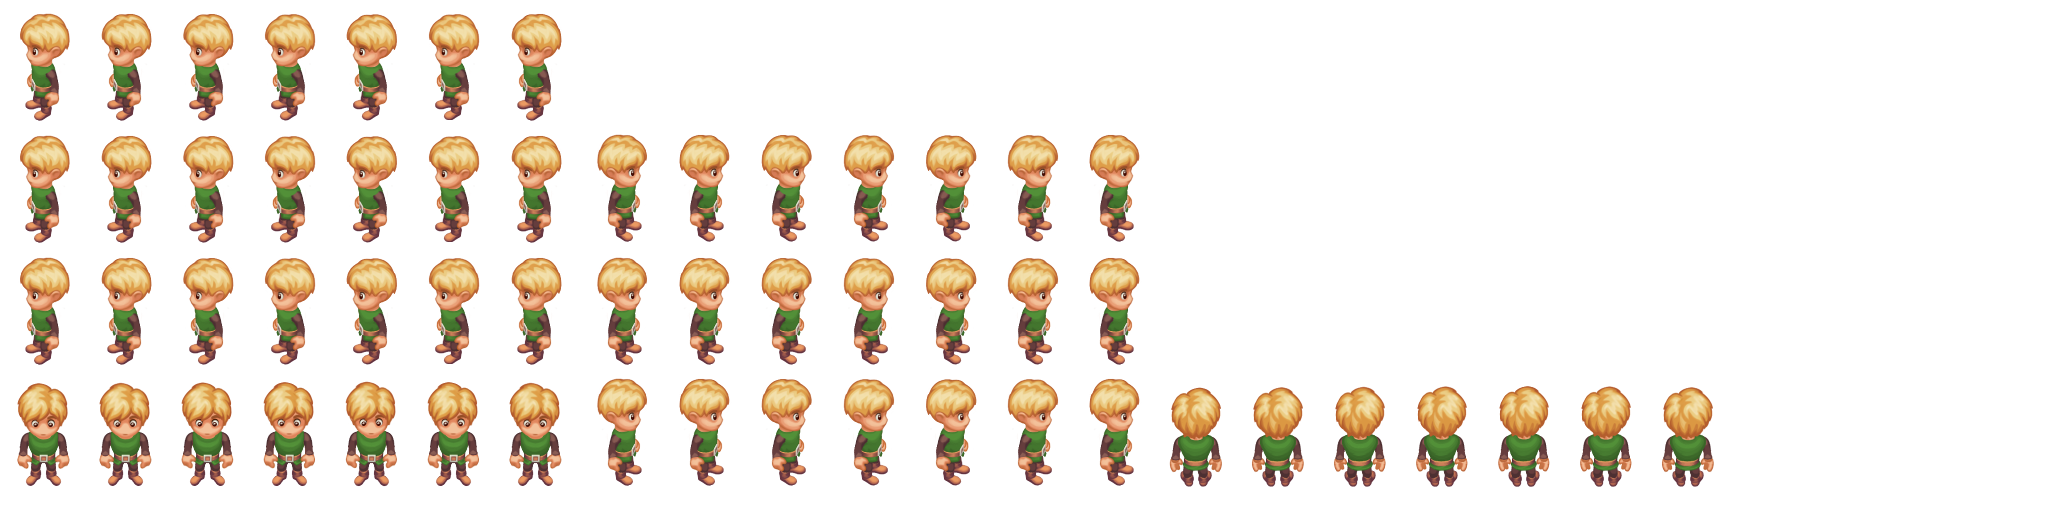
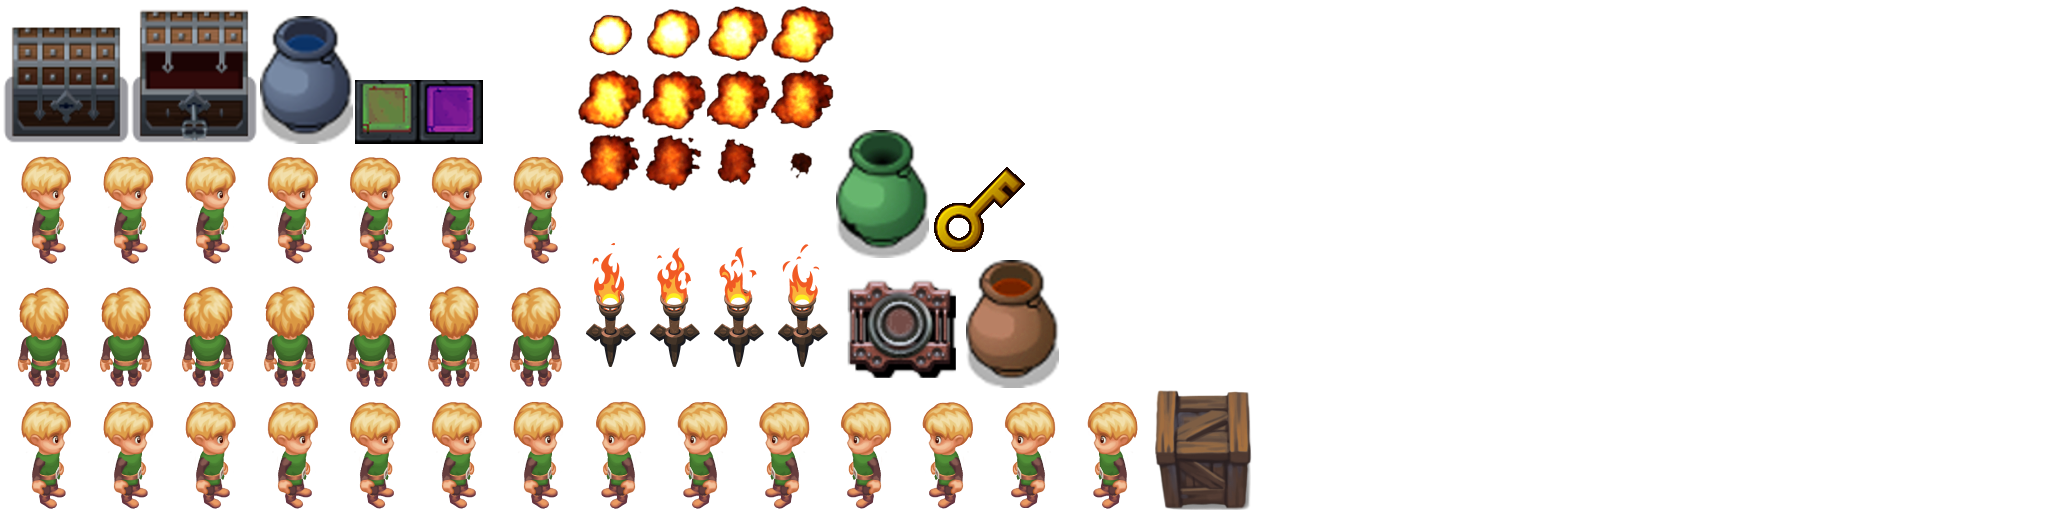
Essential backup

Changed region(s): [[0.0, 0.0, 0.8438, 1.0]]

diff --git a/core/src/com/red7projects/dungeon/assets/GameAssets.java b/core/src/com/red7projects/dungeon/assets/GameAssets.java
@@ -45,15 +45,6 @@ public class GameAssets
     public static final String _IDLE_UP_RIGHT_ASSET   = "stand_up_right";
     public static final String _IDLE_DOWN_RIGHT_ASSET = "stand_down_right";
 
-    public static final String _FIGHT_UP_ASSET         = "fight_up";
-    public static final String _FIGHT_DOWN_ASSET       = "fight_down";
-    public static final String _FIGHT_LEFT_ASSET       = "fight_left";
-    public static final String _FIGHT_RIGHT_ASSET      = "fight_right";
-    public static final String _FIGHT_UP_LEFT_ASSET    = "fight_up_left";
-    public static final String _FIGHT_DOWN_LEFT_ASSET  = "fight_down_left";
-    public static final String _FIGHT_UP_RIGHT_ASSET   = "fight_up_right";
-    public static final String _FIGHT_DOWN_RIGHT_ASSET = "fight_down_right";
-
     public static final String _CAST_UP_ASSET         = "cast_up";
     public static final String _CAST_DOWN_ASSET       = "cast_down";
     public static final String _CAST_LEFT_ASSET       = "cast_left";
@@ -68,8 +59,7 @@ public class GameAssets
 
     public static final int _PLAYER_STAND_FRAMES = 7;
     public static final int _PLAYER_RUN_FRAMES   = 10;
-    public static final int _PLAYER_FIGHT_FRAMES = 7;
-    public static final int _PLAYER_CAST_FRAMES  = 6;
+    public static final int _PLAYER_FIGHT_FRAMES = 6;
     public static final int _PLAYER_DYING_FRAMES = 1;
     public static final int _PLAYER_SPAWN_FRAMES = 20;
     public static final int _PLAYER_APPEAR_FRAME = 13;
@@ -217,12 +207,10 @@ public class GameAssets
     public static final String _KEY_COLLECTED_MSG_ASSET   = "key_collected";
     public static final String _GAMEOVER_MSG_ASSET        = "gameover";
     public static final String _KEY_NEEDED_MSG_ASSET      = "key_needed";
-    public static final String _KEY_HINT_MSG_ASSET        = "key_hint";
     public static final String _GETREADY_MSG_ASSET        = "getready";
     public static final String _PRESS_FOR_TREASURE_ASSET  = "press_for_treasure";
     public static final String _PRESS_FOR_PRISONER_ASSET  = "press_for_prisoner";
     public static final String _STORM_DEMON_WARNING_ASSET = "storm_demon_warning";
-    public static final String _VILLAGER_FACES_ASSET      = "villager_faces";
 
     //
     // Weaponry and Explosions
@@ -242,12 +230,6 @@ public class GameAssets
     public static final int _GEMS_FRAMES                   = 6;
     public static final int _KEY_FRAMES                    = 5;
     public static final int _SHIELD_FRAMES                 = 1;
-    public static final int _APPLE_FRAMES                  = 1;
-    public static final int _BOOK_FRAMES                   = 1;
-    public static final int _CAKE_FRAMES                   = 1;
-    public static final int _CHERRIES_FRAMES               = 1;
-    public static final int _GRAPES_FRAMES                 = 1;
-    public static final int _ARMOUR_FRAMES                 = 1;
     public static final int _ALCOVE_TORCH_FRAMES           = 4;
     public static final int _POT_FRAMES                    = 1;
     public static final int _CRATE_FRAMES                  = 1;
@@ -260,27 +242,19 @@ public class GameAssets
     public static final int _MYSTERY_CHEST_FRAMES          = 2;
     public static final int _STORM_DEMON_FRAMES            = 7;
     public static final int _BOUNCER_FRAMES                = 1;
-    public static final int _JELLY_MONSTER_FRAMES          = 8;
-    public static final int _MINI_FIRE_BALL_FRAMES         = 6;
     public static final int _FLAME_THROW_FRAMES            = 4;
     public static final int _SPIKE_BALL_FRAMES             = 1;
     public static final int _SPIKE_BLOCK_HORIZONTAL_FRAMES = 10;
     public static final int _SPIKE_BLOCK_VERTICAL_FRAMES   = 10;
     public static final int _TELEPORTER_FRAMES             = 8;
-    public static final int _HELP_ME_FRAMES                = 1;
     public static final int _PHASER_BULLET_FRAMES          = 1;
     public static final int _FIREBALL_BULLET_FRAMES        = 1;
-    public static final int _DOCUMENT_FRAMES               = 6;
     public static final int _SCORPION_FRAMES               = 15;
-    public static final int _GREEN_BEETLE_FRAMES           = 5;
-    public static final int _QUESTION_MARK_FRAMES          = 1;
     public static final int _FLOATING_PLATFORM_FRAMES      = 1;
     public static final int _TURRET_FRAMES                 = 1;
-    public static final int _PRESS_BUTTON_MESSAGES_FRAMES  = 3;
     public static final int _SACKS_FRAMES                  = 1;
     public static final int _CROSSHAIRS_FRAMES             = 1;
     public static final int _ESCALATOR_FRAMES              = 16;
-    public static final int _VILLAGER_FACES_FRAMES         = 3;
     public static final int _LITTER_FRAMES                 = 10;
     public static final int _BOOKS_FRAMES                  = 5;
     public static final int _RUNES_FRAMES                  = 8;
@@ -302,7 +276,6 @@ public class GameAssets
         {
             new AssetSize(GraphicID.G_PLAYER, 82, 120),
             new AssetSize(GraphicID.G_PLAYER_FIGHT, 82, 120),
-            new AssetSize(GraphicID.G_PLAYER_CAST, 82, 120),
             new AssetSize(GraphicID.G_ARROW, 82, 82),
             new AssetSize(GraphicID.G_PRISONER, 128, 128),
             new AssetSize(GraphicID.G_VILLAGER, 128, 128),

diff --git a/core/src/com/red7projects/dungeon/entities/hero/MainPlayer.java b/core/src/com/red7projects/dungeon/entities/hero/MainPlayer.java
@@ -267,13 +267,18 @@ public class MainPlayer extends GdxSprite
             }
             break;
 
-            case _CASTING:
             case _FIGHTING:
             {
                 if (animation.isAnimationFinished(elapsedAnimTime))
                 {
-                    bulletManager.createBullet(app.getPlayer(), app);
                     setAction(Actions._STANDING);
+                }
+                else
+                {
+                    if (animation.getKeyFrameIndex(elapsedAnimTime) == GameAssets._PLAYER_FIGHT_FRAMES / 2)
+                    {
+                        bulletManager.createBullet(app.getPlayer(), app);
+                    }
                 }
             }
             break;
@@ -348,20 +353,6 @@ public class MainPlayer extends GdxSprite
 
         final DirectionAnim[] fightAnims =
             {
-                new DirectionAnim(Movement._DIRECTION_LEFT, Movement._DIRECTION_UP, GameAssets._FIGHT_UP_LEFT_ASSET),
-                new DirectionAnim(Movement._DIRECTION_LEFT, Movement._DIRECTION_DOWN, GameAssets._FIGHT_DOWN_LEFT_ASSET),
-                new DirectionAnim(Movement._DIRECTION_LEFT, Movement._DIRECTION_STILL, GameAssets._FIGHT_LEFT_ASSET),
-
-                new DirectionAnim(Movement._DIRECTION_RIGHT, Movement._DIRECTION_UP, GameAssets._FIGHT_UP_RIGHT_ASSET),
-                new DirectionAnim(Movement._DIRECTION_RIGHT, Movement._DIRECTION_DOWN, GameAssets._FIGHT_DOWN_RIGHT_ASSET),
-                new DirectionAnim(Movement._DIRECTION_RIGHT, Movement._DIRECTION_STILL, GameAssets._FIGHT_RIGHT_ASSET),
-
-                new DirectionAnim(Movement._DIRECTION_STILL, Movement._DIRECTION_UP, GameAssets._FIGHT_UP_ASSET),
-                new DirectionAnim(Movement._DIRECTION_STILL, Movement._DIRECTION_DOWN, GameAssets._FIGHT_DOWN_ASSET),
-            };
-
-        final DirectionAnim[] castAnims =
-            {
                 new DirectionAnim(Movement._DIRECTION_LEFT, Movement._DIRECTION_UP, GameAssets._CAST_UP_LEFT_ASSET),
                 new DirectionAnim(Movement._DIRECTION_LEFT, Movement._DIRECTION_DOWN, GameAssets._CAST_DOWN_LEFT_ASSET),
                 new DirectionAnim(Movement._DIRECTION_LEFT, Movement._DIRECTION_STILL, GameAssets._CAST_LEFT_ASSET),
@@ -429,37 +420,8 @@ public class MainPlayer extends GdxSprite
             }
             break;
 
-            case _CASTING:
-            {
-                Trace.__FILE_LINE__();
-
-                EntityDescriptor descriptor = new EntityDescriptor();
-
-                descriptor._FRAMES   = GameAssets._PLAYER_CAST_FRAMES;
-                descriptor._PLAYMODE = Animation.PlayMode.LOOP;
-                descriptor._SIZE     = GameAssets.getAssetSize(GraphicID.G_PLAYER_CAST);
-
-                String asset = castAnims[0].animation;
-
-                for (DirectionAnim directionAnim : castAnims)
-                {
-                    if ((lookingAt.getX() == directionAnim.dirX)
-                        && (lookingAt.getY() == directionAnim.dirY))
-                    {
-                        asset = directionAnim.animation;
-                    }
-                }
-
-                descriptor._ASSET = app.assets.getAnimationsAtlas().findRegion(asset);
-
-                setAnimation(descriptor, 0.5f);
-            }
-            break;
-
             case _FIGHTING:
             {
-                Trace.__FILE_LINE__();
-
                 EntityDescriptor descriptor = new EntityDescriptor();
 
                 descriptor._FRAMES   = GameAssets._PLAYER_FIGHT_FRAMES;
@@ -478,6 +440,8 @@ public class MainPlayer extends GdxSprite
                 }
 
                 descriptor._ASSET = app.assets.getAnimationsAtlas().findRegion(asset);
+
+                descriptor.debug();
 
                 setAnimation(descriptor, 0.5f);
             }
@@ -659,7 +623,6 @@ public class MainPlayer extends GdxSprite
                 case _NO_ACTION:
                 case _RUNNING:
                 case _FIGHTING:
-                case _CASTING:
                 case _LAST_RITES:
                 case _HURT:
                 case _DYING:

diff --git a/core/src/com/red7projects/dungeon/entities/hero/PlayerBullet.java b/core/src/com/red7projects/dungeon/entities/hero/PlayerBullet.java
@@ -27,6 +27,7 @@ import com.red7projects.dungeon.game.Actions;
 import com.red7projects.dungeon.game.App;
 import com.red7projects.dungeon.graphics.Gfx;
 import com.red7projects.dungeon.graphics.GraphicID;
+import com.red7projects.dungeon.physics.Movement;
 import com.red7projects.dungeon.utils.logging.StopWatch;
 import com.red7projects.dungeon.utils.logging.Trace;
 import org.jetbrains.annotations.Contract;
@@ -66,11 +67,21 @@ public class PlayerBullet extends GdxSprite
 
         parent = entityDescriptor._PARENT;
 
+        direction.set(parent.lookingAt);
+
         float x = parent.sprite.getX();
         float y = parent.sprite.getY();
 
+        if (direction.getX() == Movement._DIRECTION_LEFT)
+        {
+            x -= frameWidth;
+        }
+        else if (direction.getX() == Movement._DIRECTION_RIGHT)
+        {
+            x += parent.frameWidth;
+        }
+
         sprite.setPosition(x, y);
-        direction.set(parent.lookingAt);
 
         initXY.set(sprite.getX(), sprite.getY());
 

diff --git a/core/src/com/red7projects/dungeon/game/Actions.java b/core/src/com/red7projects/dungeon/game/Actions.java
@@ -27,7 +27,6 @@ public enum Actions
     _RUNNING,
     _JUMPING,
     _FIGHTING,
-    _CASTING,
     _FALLING,
     _FLYING,
     _TELEPORTING,
